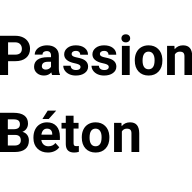
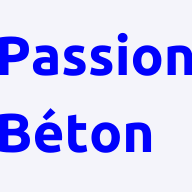
Update PWA UI settings

Changed region(s): [[0.0, 0.1562, 1.0, 0.4062], [0.0, 0.5625, 0.8125, 0.8125]]

diff --git a/public/index.html b/public/index.html
@@ -15,6 +15,8 @@
       user's mobile device or desktop. See https://developers.google.com/web/fundamentals/web-app-manifest/
     -->
     <link rel="manifest" href="%PUBLIC_URL%/manifest.json" />
+      <link rel="preconnect" href="https://fonts.gstatic.com">
+      <link href="https://fonts.googleapis.com/css2?family=Ubuntu:wght@400;500;700&display=swap" rel="stylesheet">
     <!--
       Notice the use of %PUBLIC_URL% in the tags above.
       It will be replaced with the URL of the `public` folder during the build.

diff --git a/src/App.css b/src/App.css
@@ -5,6 +5,7 @@ body {
     font-size: 1rem;
     margin-top: 30px;
     overflow: scroll !important;
+    font-family: 'Ubuntu', sans-serif;
 }
 .full-height {
     height: 100vh;
@@ -147,5 +148,9 @@ a {
     font-weight: bold;
 }
 .loader {
-    font-size: 2rem;
+    font-size: 28.0vw;
+    text-align: left;
+    color: #0001FC;
+    z-index: 10;
+    transform: translate(-3px, -40px);
 }
